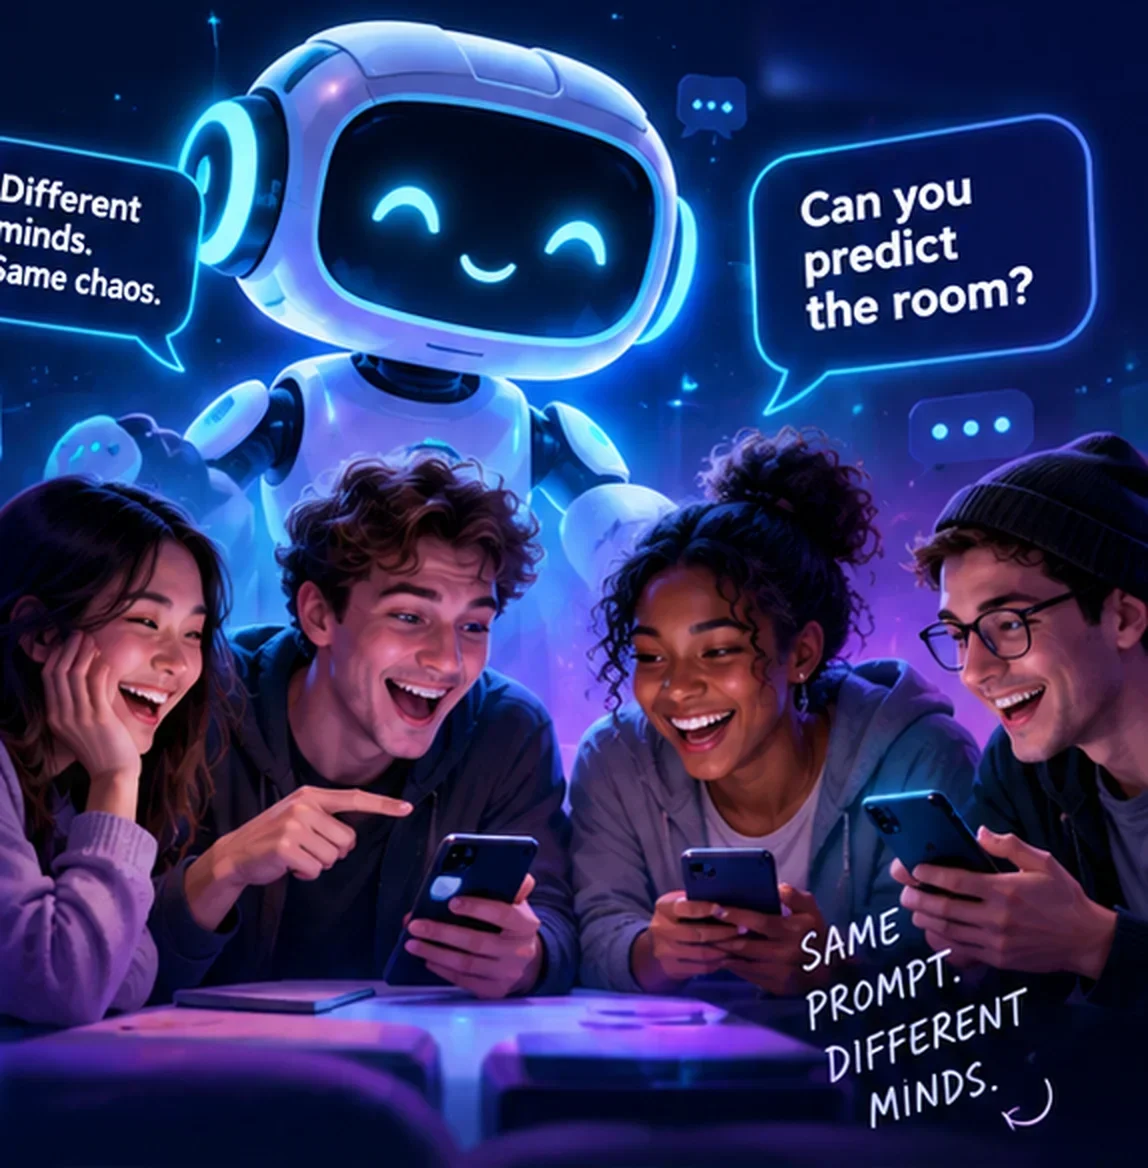
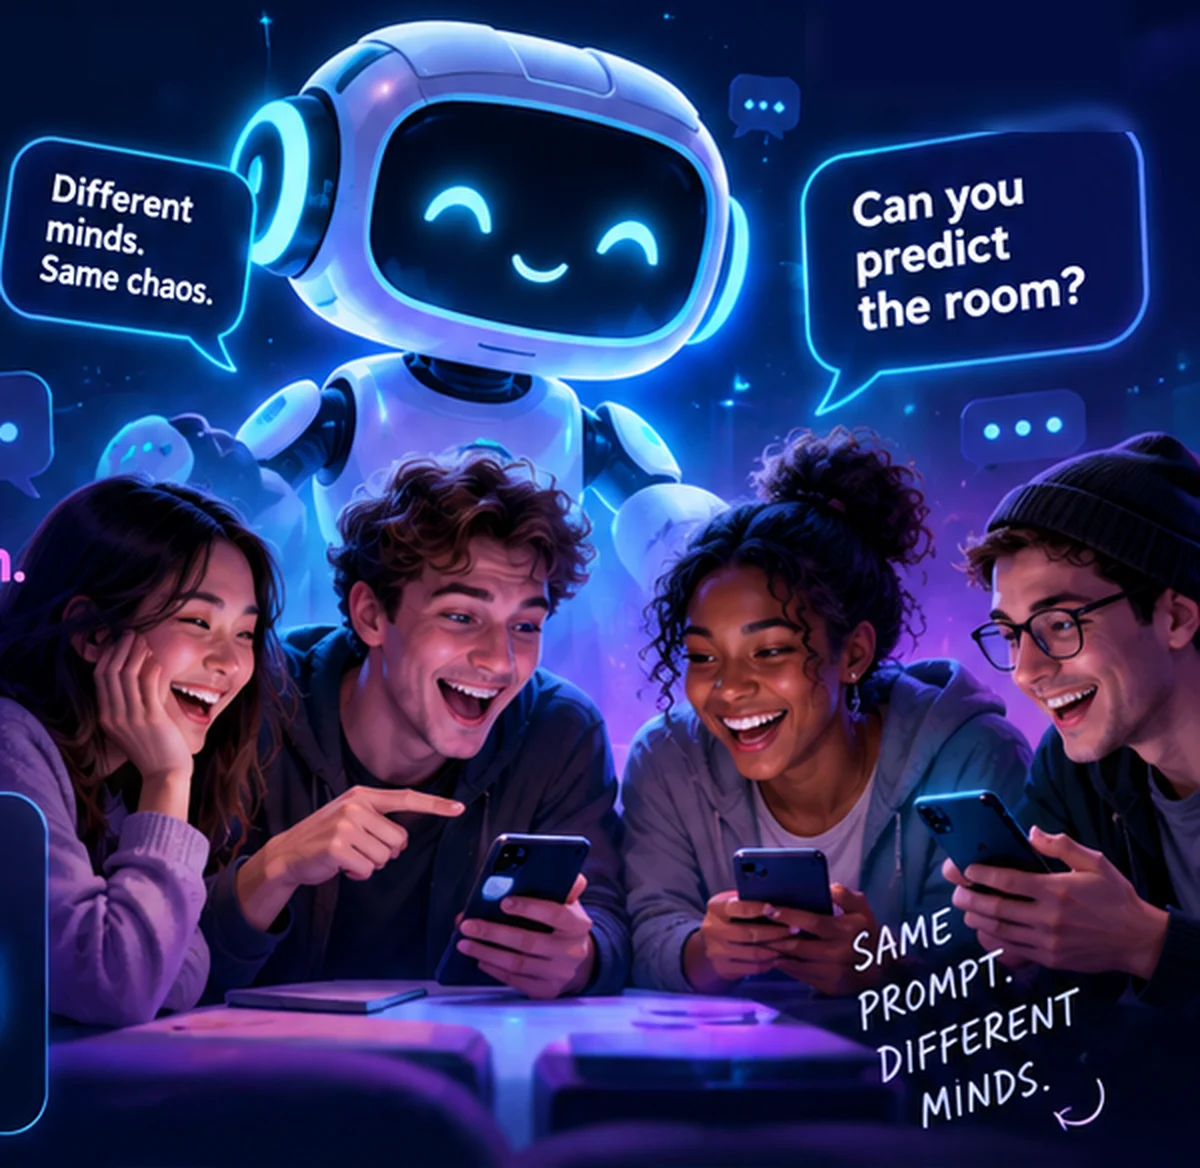
fix(visual): ChatGPT SYNC hero keeps the full 'Different minds' bubble and first friend
Re-crop from the founder source starting left of the bubble; only the
source's own nav text is painted out; a thin 8% edge fade replaces the
wide fade that dimmed the first friend.

Claude-Session: https://claude.ai/code/session_01KbtbVkNGUkQrkEDNgsB7Ru

diff --git a/public/chat/chat-founder.css b/public/chat/chat-founder.css
@@ -29,8 +29,8 @@ body:has(.cf-home) { background: radial-gradient(70% 50% at 70% 10%, rgba(116, 7
 .cf-join .cf-fine { margin: 12px 0 0; font-size: 11px; color: #8f98c6; line-height: 1.4; }
 .cf-join ul { list-style: none; display: flex; gap: 18px; margin: 14px 0 0; padding: 0; color: #c9cff0; font-size: 13px; }
 .cf-art { margin: 0 -22px 0 -40px; background: url(/chat/founder-hero.webp) center / cover no-repeat;
-  -webkit-mask-image: linear-gradient(90deg, transparent 12%, #000 30%), linear-gradient(#000 85%, transparent); -webkit-mask-composite: source-in;
-  mask-image: linear-gradient(90deg, transparent 12%, #000 30%), linear-gradient(#000 85%, transparent); mask-composite: intersect; }
+  -webkit-mask-image: linear-gradient(90deg, transparent 0%, #000 8%), linear-gradient(#000 85%, transparent); -webkit-mask-composite: source-in;
+  mask-image: linear-gradient(90deg, transparent 0%, #000 8%), linear-gradient(#000 85%, transparent); mask-composite: intersect; }
 
 /* Feature strip */
 .cf-features { display: grid; grid-template-columns: repeat(4, minmax(0, 1fr)); gap: 12px; }
